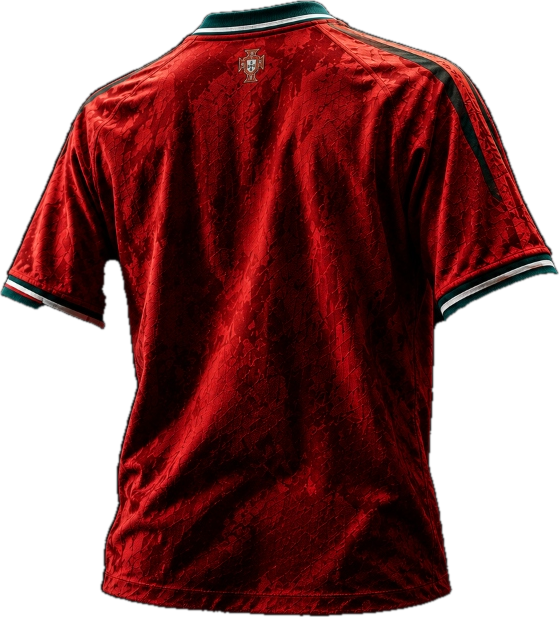
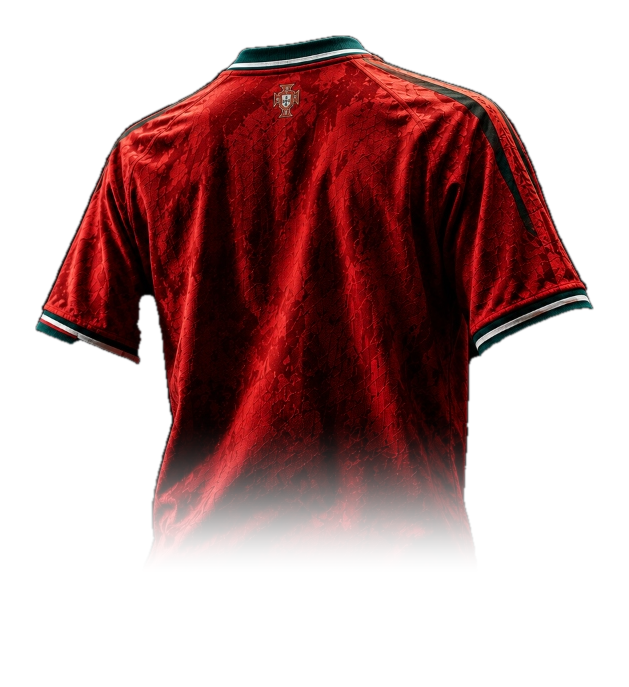
fix(hero): eliminate rectangular jersey drop-shadow artifacts and restore original bright contrast to drapery signature

diff --git a/jersey-store/src/components/home/EditorialHero.tsx b/jersey-store/src/components/home/EditorialHero.tsx
@@ -243,15 +243,11 @@ export const EditorialHero: React.FC = () => {
                     className="relative w-full h-full flex items-center justify-center"
                   >
                     {currentView.isCutout ? (
-                      <div className="relative w-full h-full flex items-center justify-center">
-                        <img
-                          src={currentView.image}
-                          alt="Portugal 2025/26 Match Kit"
-                          className="w-full h-full object-contain filter drop-shadow-[0_20px_40px_rgba(0,0,0,0.85)] drop-shadow-[0_0_50px_rgba(227,38,30,0.25)] select-none pointer-events-auto [mask-image:linear-gradient(to_bottom,black_65%,transparent_96%)] [-webkit-mask-image:linear-gradient(to_bottom,black_65%,transparent_96%)]"
-                        />
-                        {/* Atmospheric Bottom Black Dissolve Overlay */}
-                        <div className="absolute inset-x-0 bottom-0 h-28 bg-gradient-to-t from-black via-black/60 to-transparent pointer-events-none z-10" />
-                      </div>
+                      <img
+                        src={currentView.image}
+                        alt="Portugal 2025/26 Match Kit"
+                        className="w-full h-full object-contain filter drop-shadow-[0_20px_40px_rgba(0,0,0,0.85)] drop-shadow-[0_0_50px_rgba(227,38,30,0.25)] select-none pointer-events-auto"
+                      />
                     ) : (
                       <div className="w-full h-full p-2 bg-[#121211] border border-[#292927] rounded-sm overflow-hidden shadow-2xl relative group">
                         <img
